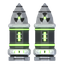
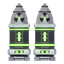
Arte 3D final da Fundicao de Projeteis Nucleares e do Projetil Nuclear
Celula quente blindada com cadinho verde pulsando, bracos manipuladores que levam o
nucleo e a ogiva ao berco e garras que fecham o projetil com clarao verde; projetil
escuro com faixas verdes (pilha de 2). A previa do teto agora usa o mesmo teste do
shader de pintura do jogo (|r - b| < 0.25), sem pintar LEDs verdes.

Claude-Session: https://claude.ai/code/session_01WinUi4wzHz3zWHUSicAx1P

diff --git a/tools/blender/parts/bs_factory_shell_nuke.py b/tools/blender/parts/bs_factory_shell_nuke.py
@@ -22,19 +22,23 @@ so em recessos escuros):
     cantos de fora, casco de chumbo (esquerda) e estante de ogivas (direita) no leito escuro;
   * berco de montagem blindado no tile central: calha escura com o estojo partido em 2 metades (as mesmas
     medidas do Projetil Nuclear, parts/bs_shell_nuke.py, em 0.72), 2 mordentes pesados de grampo (bloco
-    escuro + casca clara) que correm em trilhos de aco, e capuz de saida embaixo (o projetil pronto desce por
-    baixo dele para a saida).
+    escuro + casca clara) que correm em trilhos de aco, culatra de proa em cima (2 cunhas claras de bisel
+    duplo com fenda de 2 LEDs de pronto e batente de aco onde a espoleta encosta) e capuz de saida embaixo (o
+    projetil pronto desce por baixo dele para a saida).
 Animacao (12 quadros, 0.11 s): 0 estojo aberto com as faixas apagadas, garras nas portas (nucleo e ogiva
 presos); 1-3 o braco esquerdo leva o nucleo (o banho pulsa forte quando o nucleo sai) e as faixas acendem
 quando ele entra; 2-4 o braco direito leva a ogiva; 4-5 as metades fecham; 6 o grampo bate com lampejo verde
 pelas costuras; 7-8 o lampejo apaga e o grampo solta; 9-10 o projetil desce para a saida; 11 metades novas
-chegando pelos lados (LED de pronto na calha), novos nucleo e ogiva saindo das portas. O quadro 0 (base do
-lights.png) nao tem o estojo aceso.
+chegando pelos lados (LED de pronto na calha), novos nucleo e ogiva saindo das portas. O banho do cadinho
+desce a um vale escuro (crosta de escoria engrossando) nos quadros 4-8 e volta ao nivel do quadro 0. Os LEDs
+de pronto da culatra ficam acesos com o berco aberto esperando (0-2, 11). O quadro 0 (base do lights.png)
+nao tem o estojo aceso.
 Teto: placas verdes (pintura) em blindagem extra pesada: guardas claras em L nos cantos de cima, 4 laminas
 claras em cunha (cantos de cima e de baixo) emoldurando o trevo de 3 laminas de blindagem clara do tile
 central, tampa da celula quente sem pintura em degraus com visor, chevrons duplos verdes elevados nas
 entradas e na saida, cinta de cofre em segmentos claros com dobradicas e trava central sobre a saida. As
-luzes do teto sao lima (R alto, B zero) para nao cair no teste de troca de cor do shader do teto.
+luzes do teto sao verdes com R medio e B zero (r - b alto) para nao cair no teste de troca de cor do shader
+do teto (swapAllegianceColor).
 """
 
 import math
@@ -97,8 +101,9 @@ def _state(phase):
         "slide": {9: 0.10, 10: 0.36}.get(i, 0.0),
         "lit": i in (3, 4, 5, 6, 7, 8, 9, 10),     # faixas do estojo acendem quando o nucleo entra
         "ready": i == 11,                          # LED de pronto no fundo da calha (metades novas chegando)
-        # banho do cadinho (forca da emissao)
-        "melt": [1.0, 2.0, 1.5, 1.2, 0.95, 0.75, 0.7, 0.75, 0.8, 0.85, 0.95, 1.0][i],
+        # banho do cadinho (forca da emissao): pico quando o nucleo sai, vale fundo (crosta escura) durante o
+        # fechamento e volta ao nivel do quadro 0 (base do lights.png)
+        "melt": [1.0, 1.8, 1.5, 1.1, 0.7, 0.4, 0.3, 0.4, 0.6, 0.8, 0.9, 1.0][i],
     }
 
 
@@ -110,9 +115,10 @@ def _extra(st=None):
     X.update({
         "cap": X["ogive"],
         # banho do cadinho: verde saturado. Forca baixa porque o halo do render soma ~55% em areas grandes de
-        # emissao (com mais que ~0.4 o banho estoura em verde-branco); centro mais quente
-        "melt": B.mat_glow("nk_melt", (0.30, 1.0, 0.14), 0.16 + 0.13 * melt),
-        "melt_hot": B.mat_glow("nk_melt_hot", (0.36, 1.0, 0.18), 0.30 + 0.25 * melt),
+        # emissao (com mais que ~0.4 o banho estoura em verde-branco): o pulso desce fundo no vale (0.3 -> ~0.05)
+        # e sobe pouco no pico (1.8 -> ~0.37); centro mais quente
+        "melt": B.mat_glow("nk_melt", (0.30, 1.0, 0.14), 0.29 * min(melt, 1.0) ** 1.4 + 0.10 * max(0.0, melt - 1.0)),
+        "melt_hot": B.mat_glow("nk_melt_hot", (0.36, 1.0, 0.18), 0.05 + 0.50 * min(melt, 1.4)),
         "flash": B.mat_glow("nk_flash", (0.35, 1.0, 0.16), 1.2 + 1.8 * flash),
         "lead": B.mat_metal("nk_lead", (0.075, 0.08, 0.085), rough=0.55, metal=0.5),
         # cinza medio fosco das cascas secundarias (sem desgaste: nao clareia nas quinas)
@@ -126,12 +132,13 @@ def _extra(st=None):
 
 
 def _roof_led():
-    """LED do teto: verde-lima com R alto e B zero. O shader do teto (swapAllegianceColor) troca pela pintura
-    todo pixel com g - max(r, b) > .05 e |r - b| < .25; o verde puro das luzes cairia nesse teste. Com
-    r/g >= ~0.9 (sRGB) e b = 0 nem o nucleo, nem as bordas misturadas com a blindagem, nem o halo sobre o leito
-    escuro passam no teste (com r/g < 0.83 a mistura com cinza neutro ja cai no teste).
+    """LED do teto: verde (matiz ~90 graus, o mesmo verde do interior e do Boiuna) com B zero. O shader do teto
+    (swapAllegianceColor) troca pela pintura todo pixel com g - max(r, b) > .05 e |r - b| < .25; o verde puro
+    (R baixo e B baixo) cairia nesse teste. Com B = 0 e R ~ 0.5 o nucleo do LED fica com r - b bem acima de .25
+    (r ~ 130-170 em 8 bits) e nao e trocado. So as bordas fracas misturadas com o leito escuro podem cair no
+    teste: viram um tom escuro da pintura junto do leito, sem anel claro.
     Forca baixa: acima de ~1 o vermelho e o verde saturam juntos e a luz vira amarela."""
-    return B.mat_glow("nk_roof_led", (0.80, 1.0, 0.0), 0.7)
+    return B.mat_glow("nk_roof_led", (0.32, 1.0, 0.0), 0.75)
 
 
 def _holdout():
@@ -306,13 +313,15 @@ def _chamber(M, X, tags, st):
     B.loft("cru_liner", _octo(wx, wy, ri), _octo(wx, wy, ri), 0.355, 0.385, K, bevel=0.0, tags=tags)
     rm = ri - 0.013
     B.loft("cru_melt", _octo(wx, wy, rm), _octo(wx, wy, rm), 0.385, 0.395, X["melt"], bevel=0.0, tags=tags)
-    rh = 0.020 + 0.016 * max(0.0, st["melt"] - 0.7)      # centro quente cresce no pulso
+    rh = 0.005 + 0.020 * min(st["melt"], 1.6)           # centro quente cresce no pulso e encolhe no vale
     B.loft("cru_hot", _octo(wx, wy, rh, 0), _octo(wx, wy, rh, 0), 0.395, 0.40, X["melt_hot"], bevel=0.0,
            tags=tags)
+    # cascas de escoria girando devagar; engrossam no vale (crosta escura se formando quando o banho esfria)
+    rs = 0.013 + 0.020 * max(0.0, 0.9 - st["melt"])
     for k in range(3):
         a = math.radians(st["i"] * 22 + 120 * k + 15)
-        B.loft(f"cru_slag{k}", _octo(wx + math.cos(a) * 0.052, wy + math.sin(a) * 0.052, 0.013, k * 10),
-               _octo(wx + math.cos(a) * 0.052, wy + math.sin(a) * 0.052, 0.010, k * 10), 0.395, 0.403, KM,
+        B.loft(f"cru_slag{k}", _octo(wx + math.cos(a) * 0.052, wy + math.sin(a) * 0.052, rs, k * 10),
+               _octo(wx + math.cos(a) * 0.052, wy + math.sin(a) * 0.052, rs * 0.77, k * 10), 0.395, 0.403, KM,
                bevel=0.0, tags=tags)
     # pincas de aco dos dois lados: braco do lado da parede, pivo escuro e mordente que abraca o aro
     for k in (-1, 1):
@@ -556,6 +565,22 @@ def _cradle(M, X, tags, st):
     if st["ready"]:
         # LED de pronto no fundo da calha (entre as metades novas que chegam pelos lados)
         B.box("cr_ready", 0, 0.05, 0.03, 0.18, 0.064, 0.07, M["glow_dim"], bevel=0.0, tags=tags)
+    # culatra de proa: 2 cunhas de blindagem clara (bisel duplo) sobre saia escura nos cantos de cima do tile,
+    # emoldurando o nariz do projetil, com fenda de 2 LEDs de pronto (acesos com o berco aberto esperando o
+    # nucleo, fracos durante o fechamento) e batente de aco no meio onde a espoleta encosta
+    B.box("cr_ybridge", 0, 0.468, 0.44, 0.05, 0.0, 0.10, KM, bevel=0.006, tags=tags)
+    B.box("cr_nstop", 0, 0.47, 0.13, 0.044, 0.0, 0.135, S, bevel=0.008, tags=tags)
+    B.box("cr_nstopc", 0, 0.47, 0.05, 0.016, 0.135, 0.14, K, bevel=0.0, tags=tags)
+    yk = [(-0.455, 0.29), (-0.215, 0.29), (-0.195, 0.31), (-0.195, 0.42), (-0.235, 0.46), (-0.325, 0.46),
+          (-0.455, 0.33)]
+    wait = st["i"] in (0, 1, 2, 11)
+    for sx in (-1, 1):
+        f = _flip(sx)
+        B.plate(f"cr_yokek{sx}", B.offset_poly(f(yk), -0.025), 0.0, 0.14, K, slope=0.012, tags=tags)
+        ya, yp = B.shard(f"cr_yoke{sx}", f(yk), 0.10, 0.23, A, slope=0.035, groove=0.016, panel_h=0.018, tags=tags)
+        _ledslot(f"cr_ysl{sx}", sx * 0.30, 0.365, 0.12, 0.042, 0.14, 2, M, tags, [ya, yp], vertical=False,
+                 pip_mat=M["glow"] if wait else M["glow_dim"])
+        B.bolts(f"cr_yb{sx}", [(sx * 0.42, 0.312), (sx * 0.245, 0.405)], 0.235, 0.015, S, tags=tags)
 
     # estojo (2 metades) + nucleo + ogiva
     oy = -st["slide"]
@@ -674,7 +699,7 @@ def _vchev(name, cx, cy, ang, targets, z1, green, M, tags, s=1.0):
 def roof(M, T="roof"):
     """Teto verde (pintura da nave) em blindagem extra pesada, tampa da celula quente sem pintura, ombreiras e
     laminas claras dos manipuladores, o trevo de 3 laminas sobre o berco e a cinta de cofre sobre a saida.
-    Todas as luzes do teto usam o LED lima (_roof_led): o verde puro seria trocado pela pintura no jogo."""
+    Todas as luzes do teto usam o LED de _roof_led (B zero): o verde puro seria trocado pela pintura no jogo."""
     tags = (T,)
     green = B.mat_roof_green()
     LED = _roof_led()
@@ -726,7 +751,7 @@ def roof(M, T="roof"):
         if lp is not None:
             B.cut(lp, [B.rbox(f"lid_pl{sx}", sx * 0.27, 0.80, 0.022, 0.14, 0.15, 0.6, K, rot=sx * 33, bevel=0.0)])
     # visor: fenda horizontal escura (vidro de chumbo neutro, sem verde: o verde seria pintado) com a linha de
-    # luz lima do banho la embaixo e um reflexo claro na ponta
+    # luz verde do banho la embaixo e um reflexo claro na ponta
     vis = B.rpoly(0, 1.12, 0.36, 0.085, 0, chamfer=0.03)
     for k, t in enumerate((l2a, l2p)):
         B.cut(t, [B.loft(f"lid_vc{k}", vis, vis, 0.21, 0.7, K, bevel=0.0)])
@@ -772,7 +797,11 @@ def roof(M, T="roof"):
         ma, mp = B.shard(f"rf_mid{sx}", B.rpoly(sx * 1.0, 0.0, 0.92, 0.92, 0, chamfer=0.10), 0.0, 0.08, green,
                          slope=0.03, groove=0.05, panel_h=0.024, tags=tags)
         _vchev(f"rf_mv{sx}", sx * 0.98, 0.0, 0 if sx < 0 else 180, (ma, mp), 0.15, green, M, tags, s=0.95)
-        _ledslot(f"rf_mp{sx}", sx * 0.72, 0.0, 0.05, 0.14, 0.02, 2, M, tags, [ma, mp], pw=0.026, pip_mat=LED)
+        # 2 LEDs logo depois da ponta do chevron (fenda larga e pips finos centrados na coluna de pixels
+        # 57 / 134: o pip nao se mistura com o verde da placa, mistura que cairia no teste de troca de cor e
+        # viraria um ponto da cor da pintura)
+        _ledslot(f"rf_mp{sx}", sx * (1.5 - 57.5 / 64), 0.0, 0.07, 0.16, 0.02, 2, M, tags, [ma, mp], pw=0.02,
+                 pip_mat=LED)
         B.box(f"rf_strapk{sx}", sx * 1.36, 0.0, 0.10, 0.86, 0.02, 0.10, K, bevel=0.0, tags=tags)
         B.plate(f"rf_strap{sx}", B.rpoly(sx * 1.36, 0.0, 0.08, 0.84, 0, chamfer=0.03), 0.09, 0.14, S, slope=0.016,
                 bevel=0.005, tags=tags)
@@ -789,7 +818,7 @@ def roof(M, T="roof"):
     ba, bp = bots[1]
     _vchev("rf_bv", 0.0, -0.905, 270, (ba, bp), 0.15, green, M, tags, s=0.95)
     # (fenda alta e pips finos centrados numa fileira de pixels: o LED nao se mistura com o verde da placa)
-    _ledslot("rf_bpips", 0.0, -(1.5 - 138.5 / 64), 0.22, 0.06, 0.02, 3, M, tags, [ba, bp], vertical=False,
+    _ledslot("rf_bpips", 0.0, 1.5 - 138.5 / 64, 0.22, 0.06, 0.02, 3, M, tags, [ba, bp], vertical=False,
              pw=0.02, pip_mat=LED)
     for k in (0, 2):
         cx = -1.0 if k == 0 else 1.0
@@ -836,7 +865,7 @@ def roof(M, T="roof"):
     ct = B.plate("rf_ct", B.rpoly(0, STRAP_Y, 0.135, 0.135, 45), 0.12, 0.21, S, slope=0.02, bevel=0.005,
                  tags=tags)
     # fenda horizontal larga com o LED fino centrado numa fileira de pixels (sem misturar com o aco)
-    ly = -(1.5 - 179.5 / 64)
+    ly = 1.5 - 179.5 / 64             # centro da fileira de pixels 179 (y = -1.305)
     B.cut(ct, [B.box("rf_ctc", 0, ly, 0.08, 0.048, 0.17, 0.6, K, bevel=0.0)])
     B.box("rf_ctbed", 0, ly, 0.08, 0.048, 0.165, 0.175, M["black"], bevel=0.0, tags=tags)
     B.box("rf_ctl", 0, ly, 0.05, 0.014, 0.175, 0.181, LED, bevel=0.0, tags=tags)

diff --git a/tools/blender/parts/bs_shell_nuke.py b/tools/blender/parts/bs_shell_nuke.py
@@ -58,7 +58,10 @@ def mats():
         "ogive": B.mat_paint("nk_ogive", OGIVE, rough=0.36, metal=0.3, wear=0.0, grime=0.04, scale=5),
         # aco claro do anel de base e da espoleta (o aco padrao fica apagado nessa escala)
         "ring": B.mat_metal("nk_ring", (0.50, 0.52, 0.55), rough=0.3, metal=0.9),
-        "core_glow": B.mat_glow("nk_core", Mo.GREEN, 1.6),
+        # forca baixa: com mais que ~1.2 a janela do nucleo estoura em verde-branco
+        "core_glow": B.mat_glow("nk_core", Mo.GREEN, 1.1),
+        # LEDs do contador: fracos para o nucleo ficar verde (com a forca padrao eles estouram em branco)
+        "cnt": B.mat_glow("nk_cnt_led", Mo.GREEN, 0.7),
         "band": B.mat_glow("nk_band", Mo.GREEN, 1.3),
         # faixa apagada (estojo aberto no berco, ainda sem nucleo)
         "band_off": B.mat_metal("nk_band_off", (0.025, 0.075, 0.035), rough=0.4, metal=0.3),
@@ -159,7 +162,7 @@ def item(M, T="item"):
     col = B.rpoly(0, (Y_COL0 + Y_COL1) / 2, 2 * (R + 0.02), Y_COL1 - Y_COL0, 0, chamfer=0.04)
     ca, cp = B.shard("nk_col", col, ZC - 0.06, top + 0.03, A, slope=0.035, groove=0.016, panel_h=0.02, tags=tags)
     Mo.slot_with_pips("nk_cnt", (Y_COL0 + Y_COL1) / 2, -0.085, 0.085, 0.05, top + 0.05, 2, M, tags, target=[ca, cp],
-                      depth=0.075, vertical=False)
+                      depth=0.075, vertical=False, pip_mat=X["cnt"])
 
     # ---- colar claro do pescoco (bisel duplo) com linha de painel
     nk = B.rpoly(0, (Y_NECK0 + Y_NECK1) / 2, 2 * (R + 0.01), Y_NECK1 - Y_NECK0, 0, chamfer=0.022)

diff --git a/tools/blender/compose_preview.py b/tools/blender/compose_preview.py
@@ -28,7 +28,9 @@ def paint_roof(img, paint):
     """Simula a pintura da nave: o jogo troca o verde puro do teto pela cor escolhida."""
     a = np.asarray(img, dtype=np.float32)
     r, g, b = a[..., 0], a[..., 1], a[..., 2]
-    mask = np.clip((g - np.maximum(r, b) - 8) / 40.0, 0, 1)
+    # mesmo teste do shader do jogo: verde acima de vermelho e azul E vermelho ~ azul (|r - b| < 0.25); sem a segunda
+    # condicao os LEDs verdes do teto (ex.: fundicao nuclear) seriam pintados na previa, mas nao no jogo
+    mask = np.clip((g - np.maximum(r, b) - 8) / 40.0, 0, 1) * (np.abs(r - b) < 64)
     lum = g / 217.0
     out = a.copy()
     for i in range(3):

diff --git a/tools/blender/STYLE.md b/tools/blender/STYLE.md
@@ -395,3 +395,6 @@ normals PNG per body size; never use a Lower/Middle bucket (hidden under our roo
 - **Material cache is per name:** `bs3d` caches materials by name, so two part files that define "silver" or "brass" with different
   values in the same scene share the first one. Reuse the existing values or pick a unique name.
 - **Copper bands** are the EMP family signature (EMP magazine and charger); other ammo lines should not use them.
+- **Green glows:** above ~1.5 of strength, larger green emissive bands turn lime/yellow in the Standard view (bands look right at
+  ~1.3, cores at ~1.6). Green roof LEDs must keep red well below green and |r - b| >= 64 (0.25), or the game's paint shader keys them
+  as paint: use a color like (0.32, 1, 0) at ~0.75.
